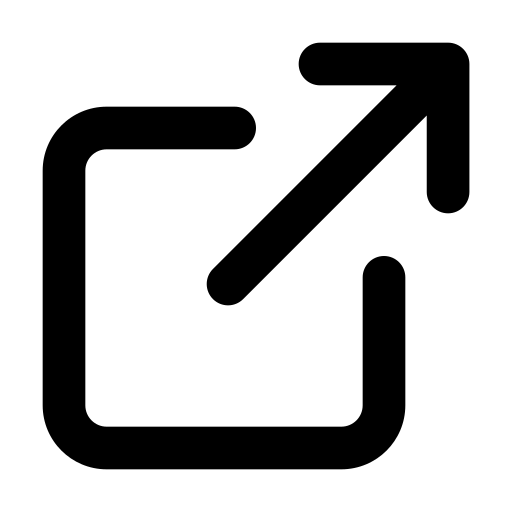
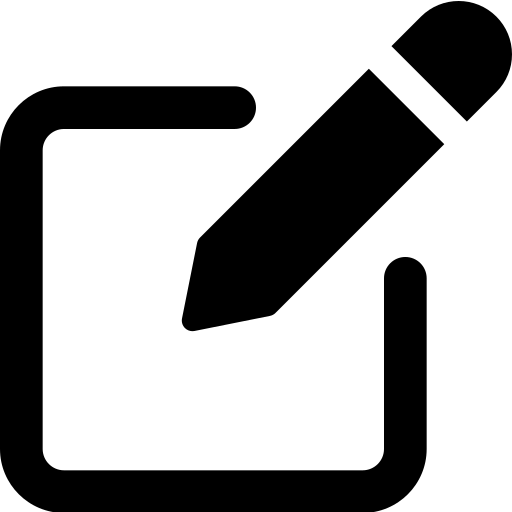
add even delegation to dynamically created divs for event listener

diff --git a/src/index.js b/src/index.js
@@ -6,7 +6,6 @@ import Storage from "./localstorage";
 
 //edit todos,
 //mark to do as finished
-//view todo's
 
 const todo1 = new Todo(0, "odin project", "entire course", "2024-12-01", "high", "default", false);
 Dom.createTodo(todo1);
@@ -21,6 +20,8 @@ const addProject = document.querySelector(".projectCreate");
 const addProjectMobileNav = document.querySelector(".projectCreateNav");
 const navMobile = document.querySelector(".nav-icon");
 const closebtn = document.querySelector(".closebtn");
+const modalTitle = document.querySelector(".modal-title");
+const bottom = document.querySelector(".bottom");
 
 const loadStorage = () => {
     Storage.loadLocalStorage();
@@ -29,14 +30,14 @@ const loadStorage = () => {
 
     for (let a = 0; a < todoArray.length; a++) {
         const todoObject = todoArray[a];
-        const todo = new Todo(todoObject._id, todoObject._title, todoObject._description, todoObject._dueDate, 
+        const todo = new Todo(todoObject._id, todoObject._title, todoObject._description, todoObject._dueDate,
             todoObject._priority, todoObject._project, todoObject);
         Dom.createTodo(todo);
     }
 
     for (let a = 0; a < projectArray.length; a++) {
         const projectObject = projectArray[a];
-        const project = new Project(projectObject._id , projectObject._name);
+        const project = new Project(projectObject._id, projectObject._name);
         Dom.createProject(project);
     }
 }
@@ -45,6 +46,7 @@ window.onload = loadStorage;
 
 addToDo.addEventListener('click', function () {
     modal.classList.add("showModal");
+    modalTitle.textContent = "CREATE TODO";
     addUnclickable();
 });
 
@@ -125,6 +127,14 @@ navMobile.addEventListener('click', function () {
 
 closebtn.addEventListener('click', function () {
     document.querySelector(".sidenav").style.width = "0";
+});
+
+bottom.addEventListener("click", (event) => {
+    if (event.target.classList.contains("openImg")) {
+        modal.classList.add("showModal");
+        modalTitle.textContent = "EDIT TODO";
+        addUnclickable();
+    }
 });
 
 const addUnclickable = () => {

diff --git a/src/dom.js b/src/dom.js
@@ -15,7 +15,7 @@ class Dom {
 
     const date = document.createElement("div");
     date.textContent = todo.dueDate;
-    
+
     const leftSide = document.createElement("div");
     leftSide.classList.add("leftSide");
 
